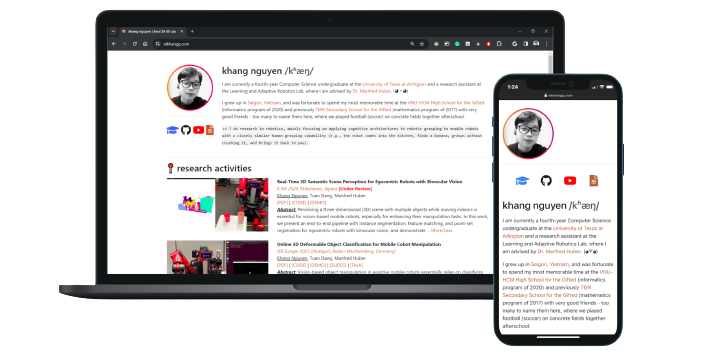
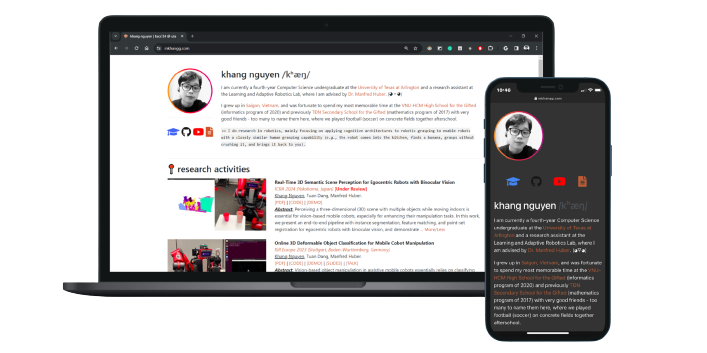
minor fixes

Changed region(s): [[0.0622, 0.0312, 0.9024, 0.9972]]

diff --git a/README.md b/README.md
@@ -6,6 +6,13 @@ This repository contains source code of [my academic website](https://mkhangg.co
   <img src="https://mkhangg.com/assets/img/devices_mockup_transparent.png" data-canonical-src="https://mkhangg.com/assets/img/devices_mockup_transparent.png" width="700"/><br/>
 </p>
 
+<!-- Update -->
+## Update
+List of updates (in terms of functionalities):
+
+* **[30 Oct 2023]** Dark/Light theme toggle button is added.
+* **[30 Oct 2023]** Dark/Light theme is displayed based on time of client.
+
 <!-- PREREQUISITES -->
 
 ## Prerequisites
@@ -113,7 +120,7 @@ bundle exec jekyll server
 
 You can either see the web version in the `_site/index.html` file or go to your `localhost`: [http://localhost:4000](http://localhost:4000).
 
-**4. Deploy Webpage at your desired host**
+**4. Deploy the webpage at your desired host**
 
 Some hosting services you can use are:
 
@@ -121,13 +128,6 @@ Some hosting services you can use are:
 2. GitHub - [tutorial](https://youtu.be/M5mg0r4ajt4).
 
 Hope you enjoy this tutorial and succesfully deploy for webpage!
-
-<!-- UPDATE -->
-## UPDATE
-List of updates (in terms of functionalities):
-
-* **[30 Oct 2023]** Dark/Light theme toggle button is added.
-* **[30 Oct 2023]** Dark/Light theme is displayed based on time of client.
 
 <!-- NOTE -->
 
